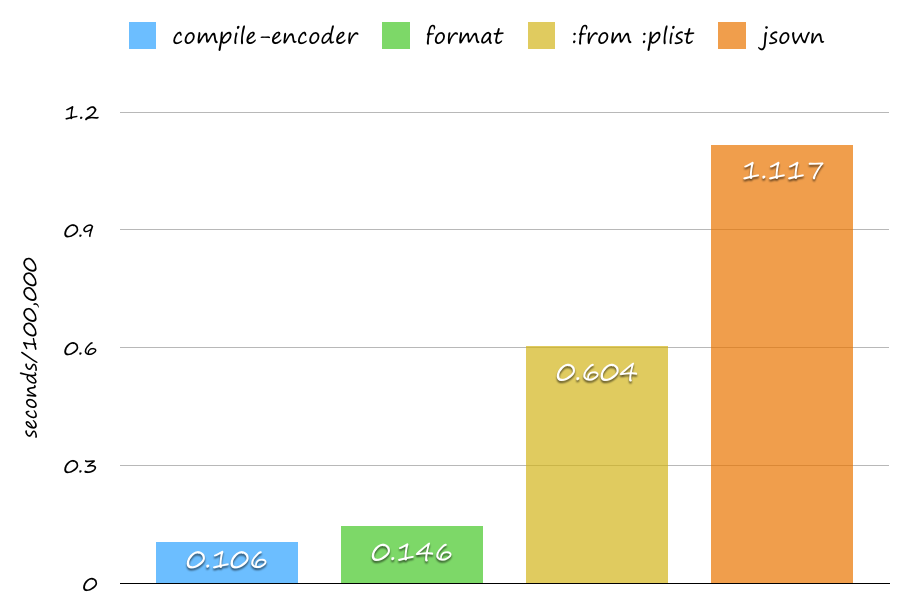
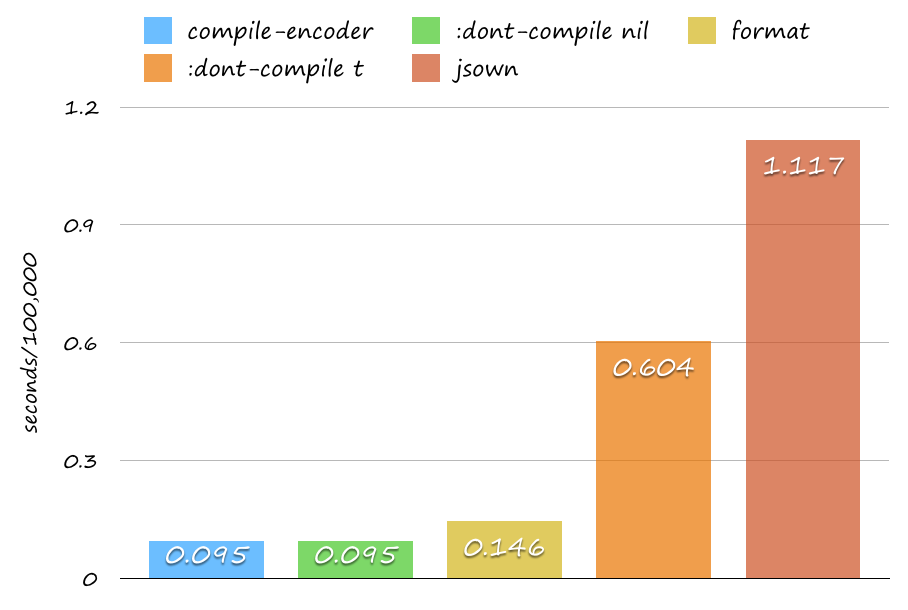
compiler-macro

diff --git a/README.md b/README.md
@@ -51,6 +51,7 @@ It's faster than [jsown](https://github.com/madnificent/jsown) - high performanc
   - Association List. (`:from :alist`)
   - Jsown Object. (`:from :jsown`)
 - can return not only string but also octets.
+- can be compiled by compiler-macro.
 
 ```Lisp
 ;; Restricted Property List Samples
@@ -89,7 +90,18 @@ It's faster than [jsown](https://github.com/madnificent/jsown) - high performanc
   (time
    (dotimes (_ 100000)
      (funcall post "Post from Alien!"))))
-;; => 0.106
+;; => 0.095
+
+(flet ((post (text)
+         (jonathan:to-json
+               (list :|channel| "lisp-alien"
+                     :|username| "alien-bot"
+                     :|text| text
+                     :|icon_url| "http://www.lisperati.com/lisplogo_warning2_256.png"))))
+  (time
+   (dotimes (_ 100000)
+     (post "Post from Alien!"))))
+;; => 0.095
 
 (flet ((post (text)
          (format nil "{\"channel\":\"lisp-alien\",\"username\":\"alien-bot\",\"text\":~s,\"icon_url\":\"http://www.lisperati.com/lisplogo_warning2_256.png\"}" text)))
@@ -102,7 +114,8 @@ It's faster than [jsown](https://github.com/madnificent/jsown) - high performanc
                (list :|channel| "lisp-alien"
                      :|username| "alien-bot"
                      :|text| text
-                     :|icon_url| "http://www.lisperati.com/lisplogo_warning2_256.png"))))
+                     :|icon_url| "http://www.lisperati.com/lisplogo_warning2_256.png")
+               :dont-compile t)))
   (time
    (dotimes (_ 100000)
      (post "Post from Alien!"))))
